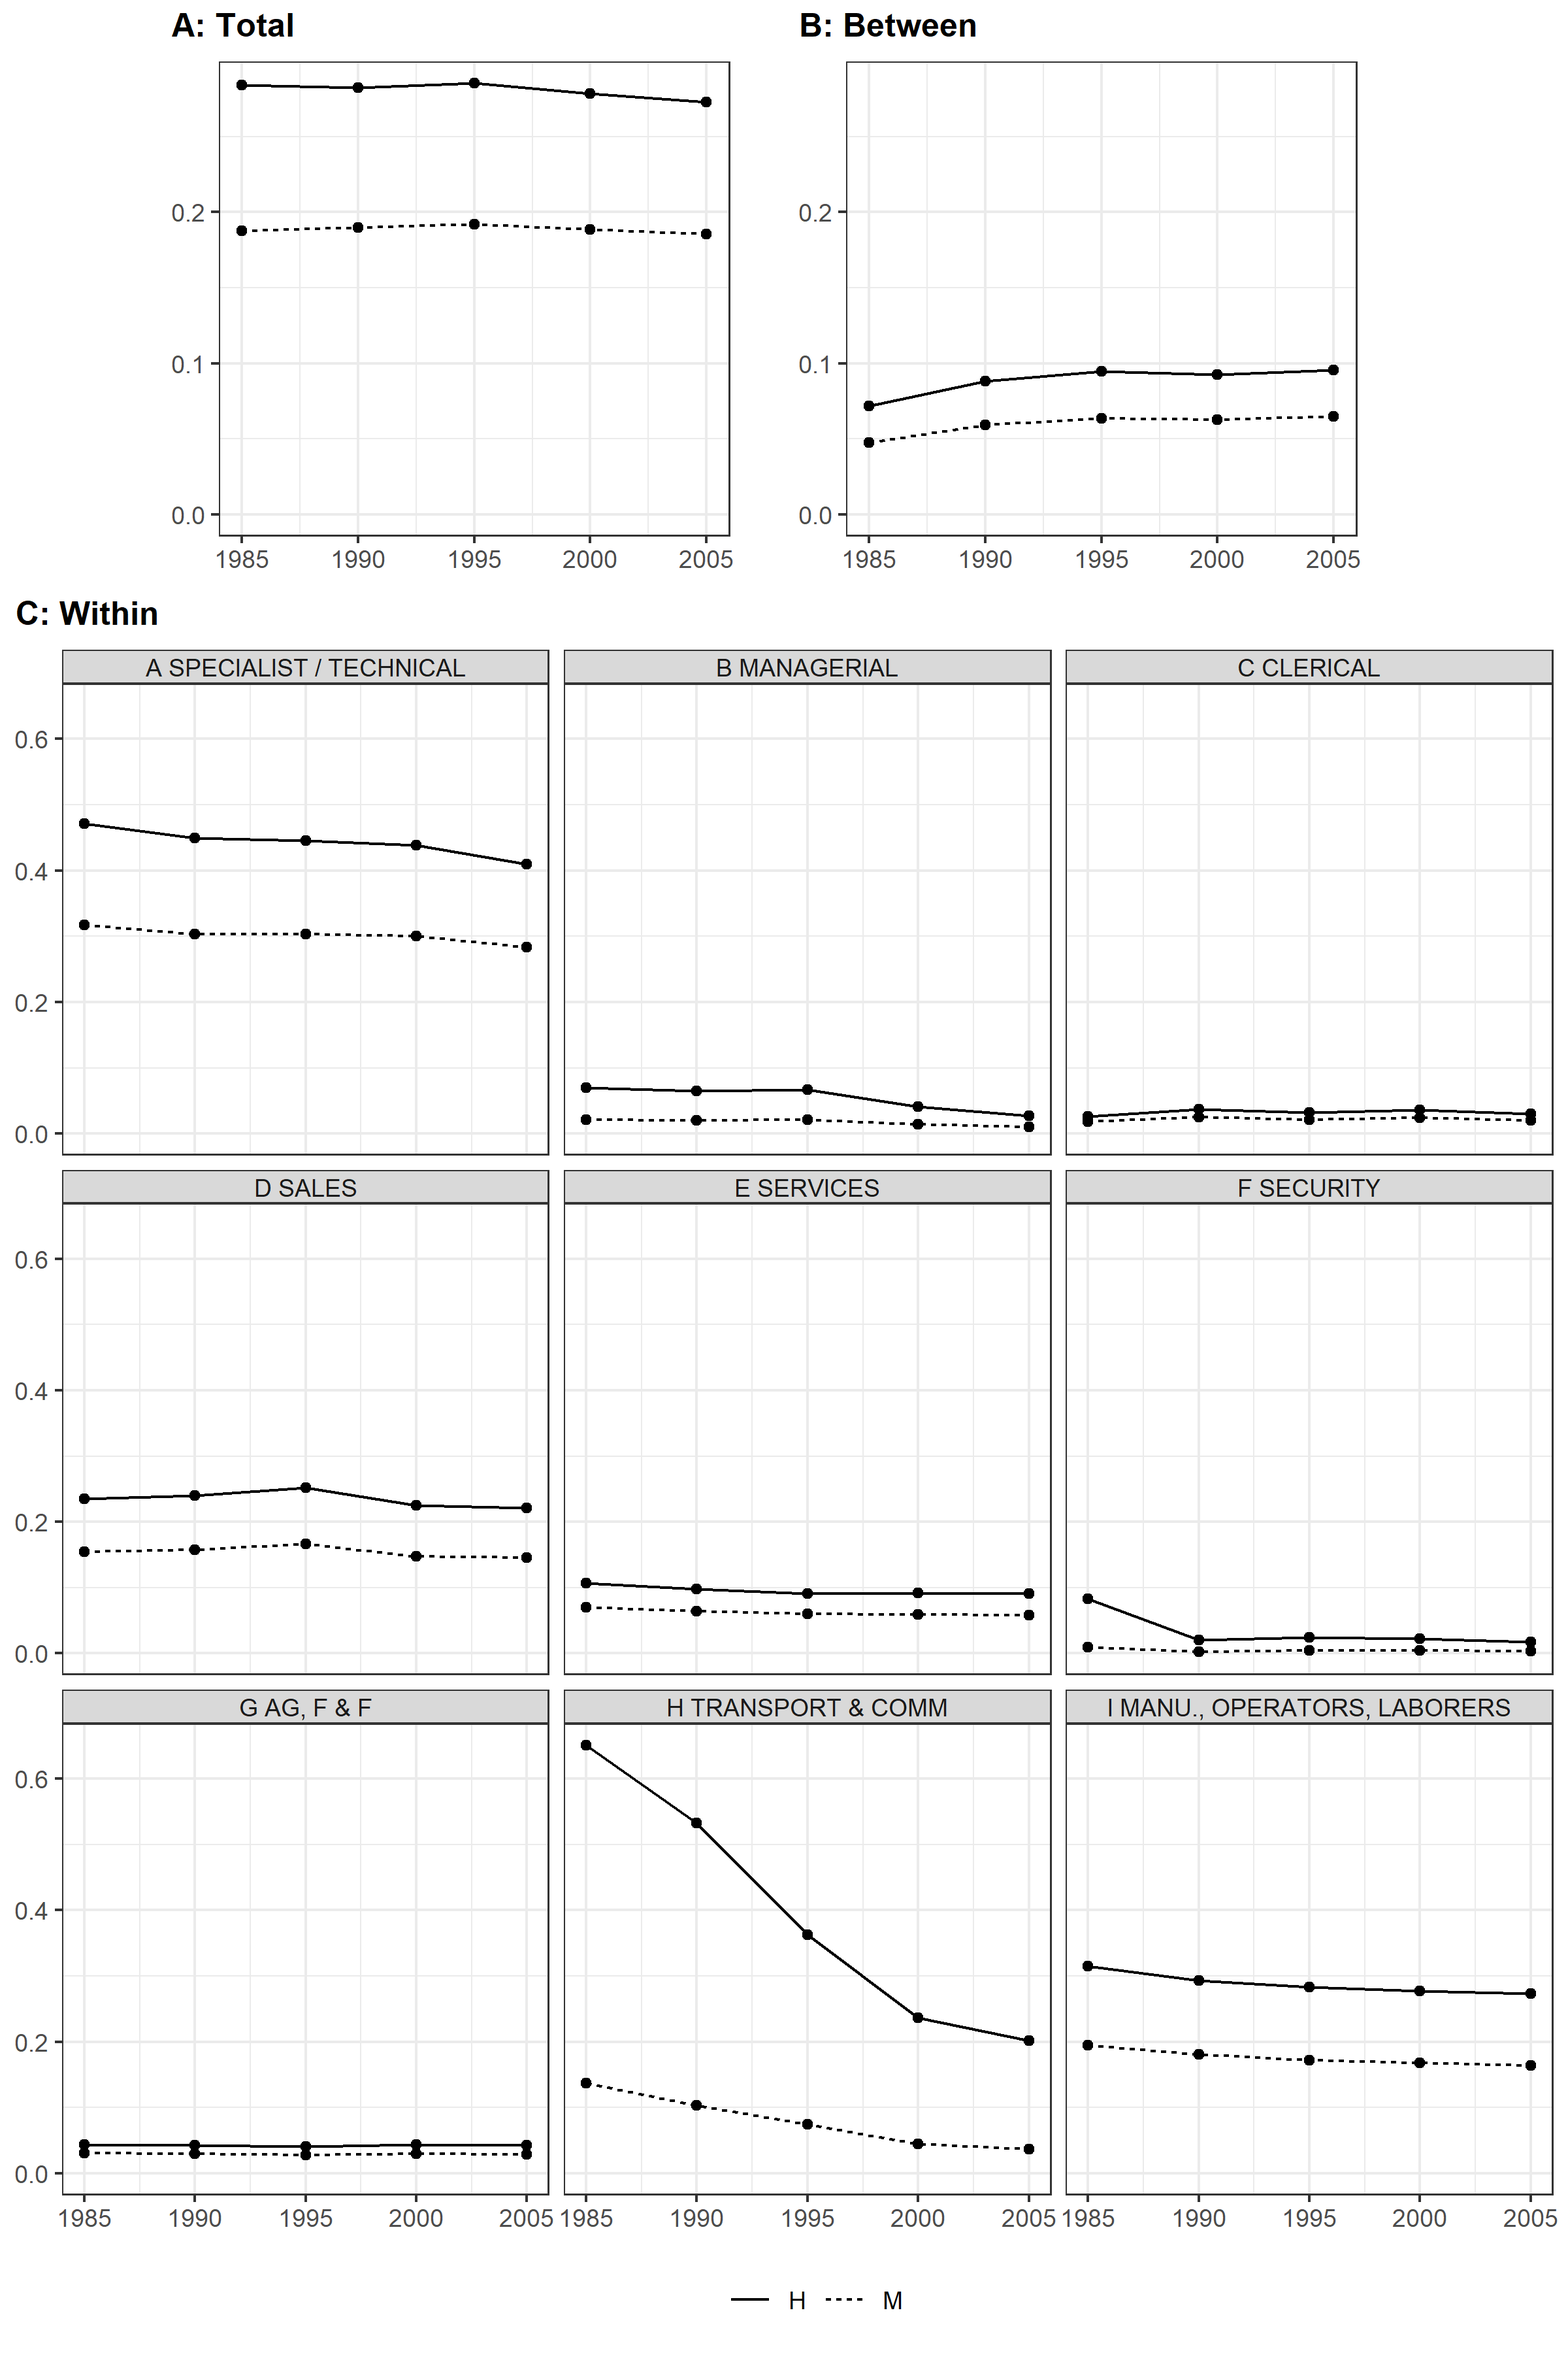
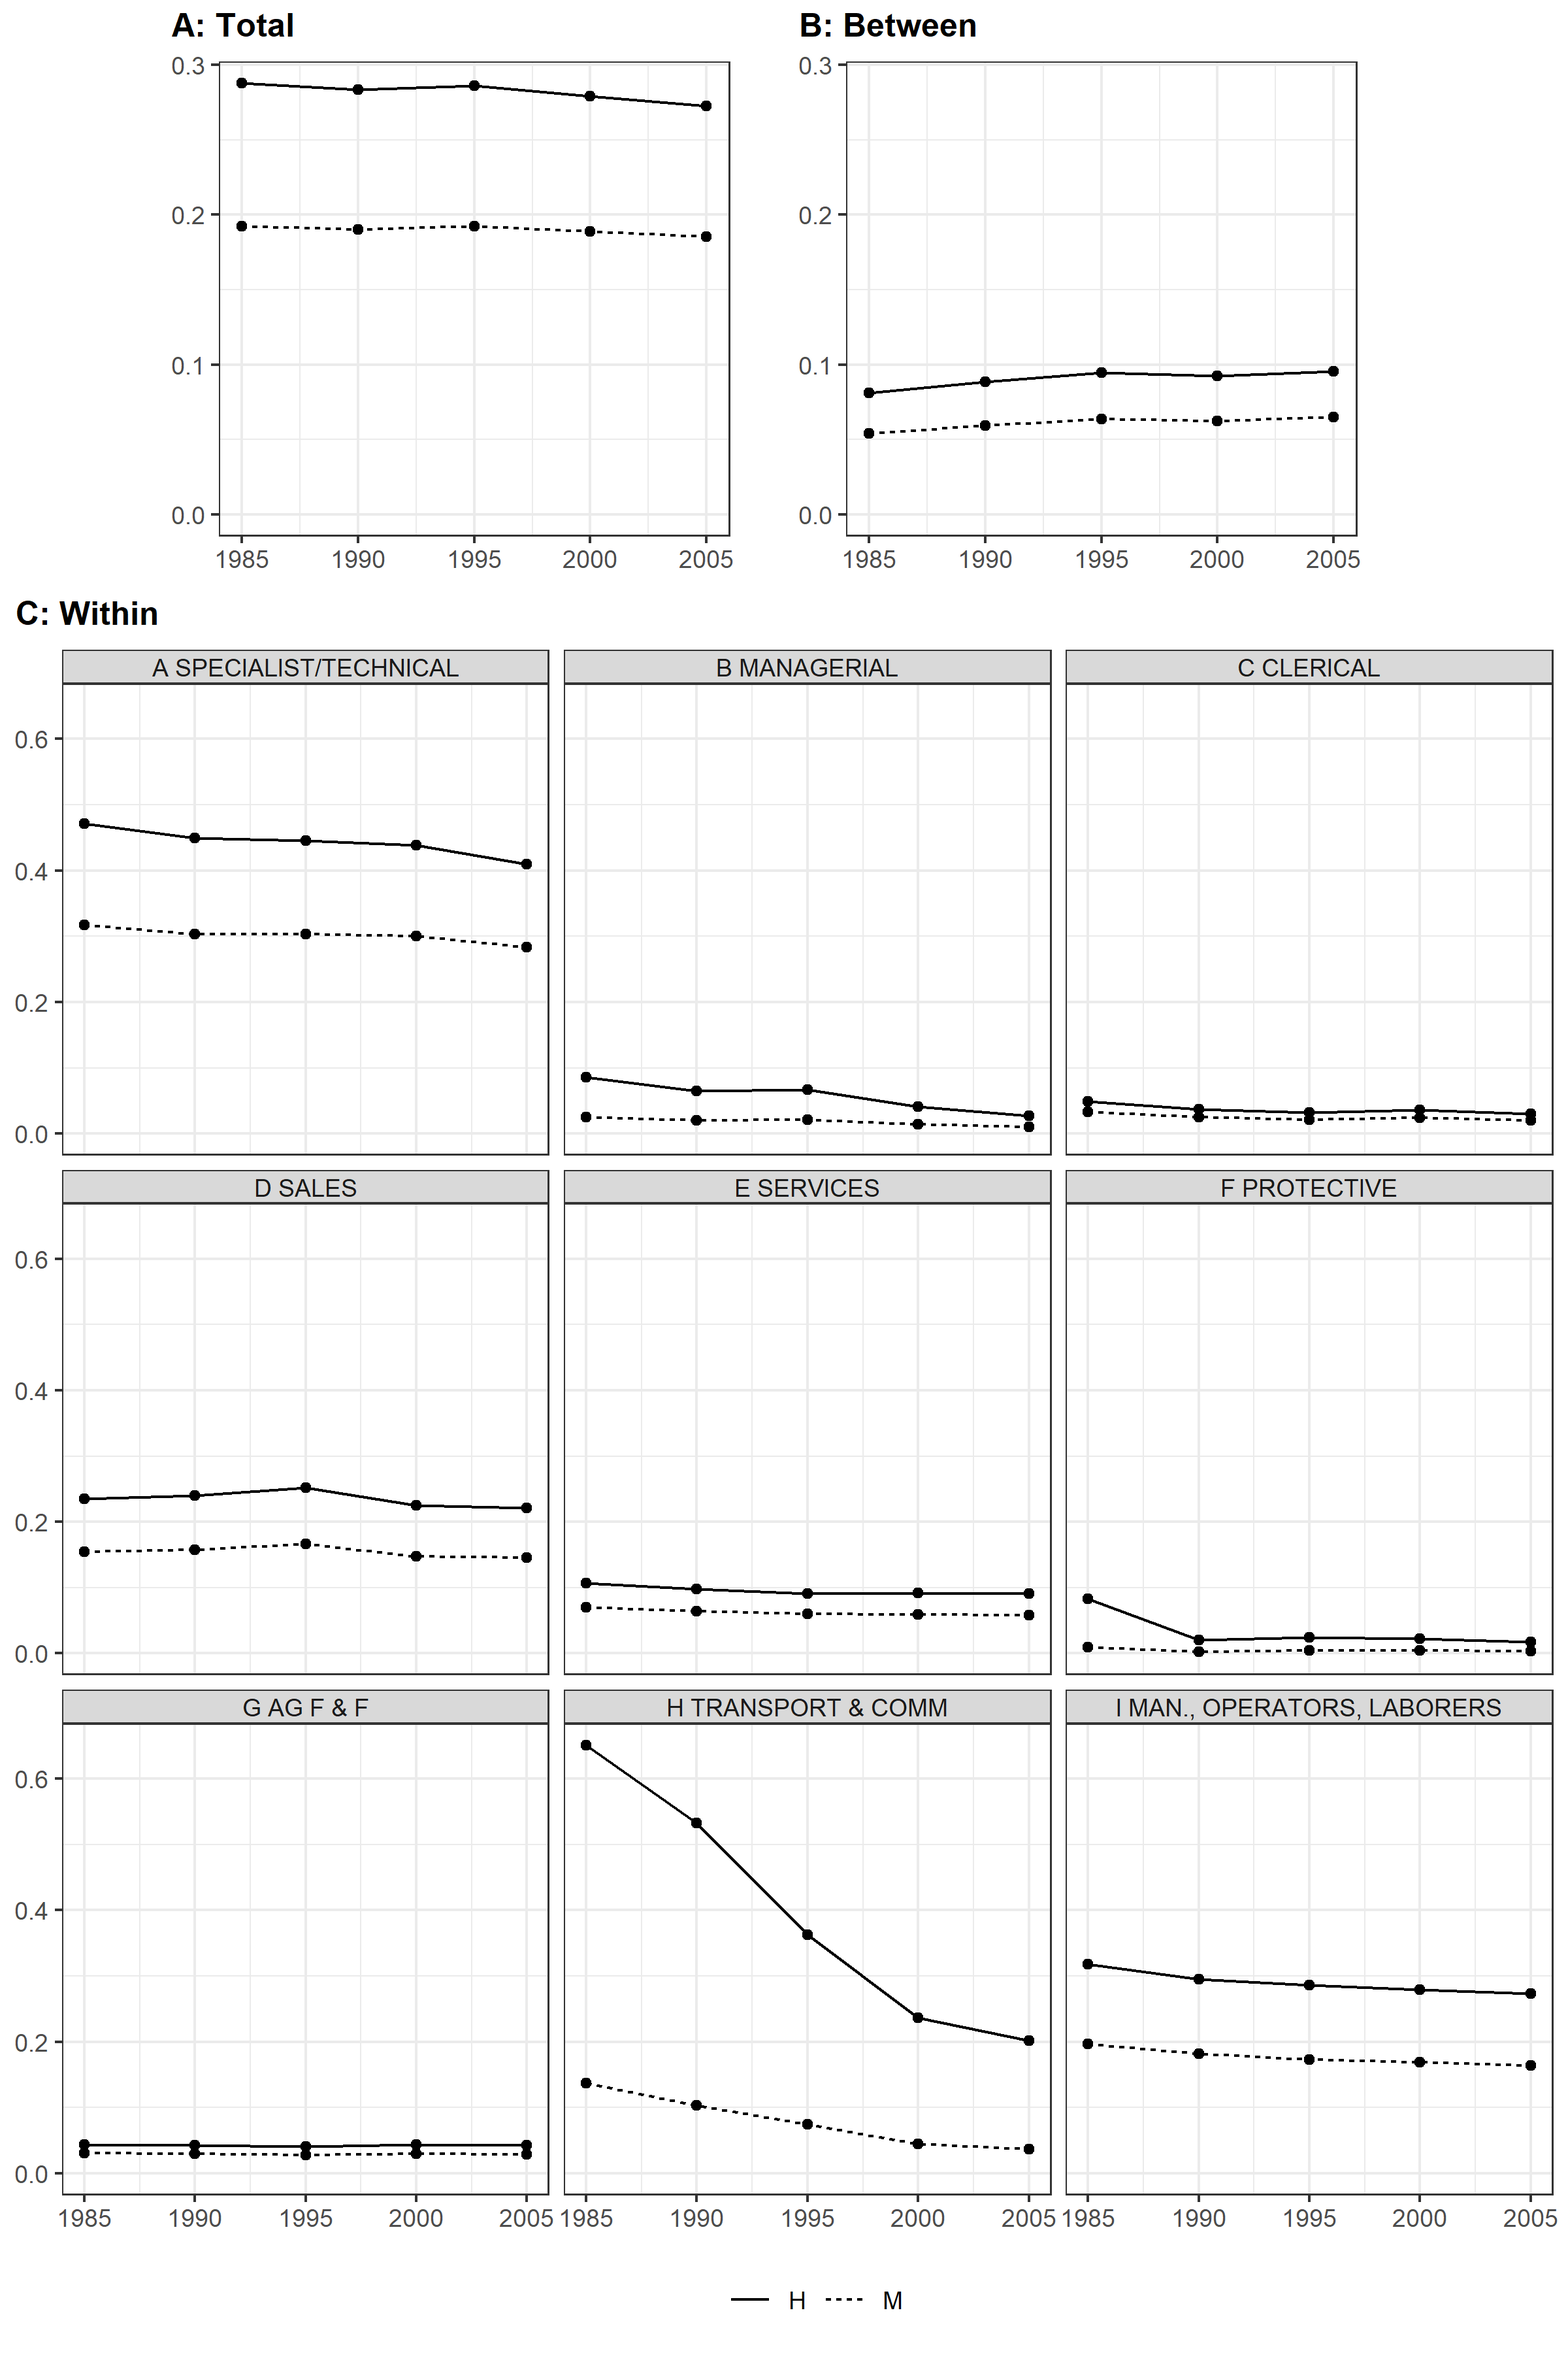
update ElbersTotalSegregation files

diff --git a/basic/ElbersTotalSegregation.html b/basic/ElbersTotalSegregation.html
@@ -2,7 +2,7 @@
     <head>
       <!--<meta name="google-site-verification" content="Z7SEnQaO9LAITbhuwGaI3rFtnpMRKeV9BbaW3LyvP2g" />-->
       <meta name="viewport" content="width=device-width, initial-scale=1.0">
-      <meta name="revised" content="14 December 2021" />
+      <meta name="revised" content="13 May 2022" />
         <title>Applying Elbers: Total segregation</title>
 
         <link rel="stylesheet" href="https://latex.now.sh/style.css"> 
@@ -16,7 +16,7 @@ integrity="sha256-84DKXVJXs0/F8OTMzX4UR909+jtl4G7SPypPavF+GfA=" crossorigin="ano
 <body>
 <h1>Applying Elbers: Total segregation</h1>
 <p class="author"><a href="https://orcid.org/0000-0003-0070-2347" target="_blank">Alan Engel</a><br>Last update: 
-14 December 2021</p>
+13 May 2022</p>
 <main>
     <p>Elbers (2021) derives a five-term decomposition: 
         $$S(t_{2})-S(t_{1})=\Delta_{appearing}+\Delta_{disappearing}$$
@@ -69,8 +69,89 @@ $$S(t_{2})-S(t_{1})=\Delta_{marginal-units}+\sum_{u\in t_{1}\cap t_{2}}\Delta_{i
           loading="lazy" alt="Decomposition of change 1985 to 2005" width="600" height="400" />
         <figcaption>Decomposition of change 1985 to 2005</figcaption>
 </figure>
-<pre><code class="language-html">#' AnalyzePerElbers.R
-# (continuation)
+<pre><code class="language-html">#' ElbersTotalSegregation.R
+#' 2021-12-15
+#' Revised 2022-5-13
+
+#' Code for https://alanintsukuba.github.io/gender.gap.japan/basic/ElbersTotalSegregation.html
+
+#' Adapted from
+#' Elbers, Benjamin. A Method for Studying Differences in Segregation Across Time and Space. 
+#' SocArXiv, 21 Dec. 2018, supplementary materials
+
+require("tidyverse")
+require("tidylog", warn.conflicts = FALSE)
+require("fst")
+require("ggthemes")
+require("segregation")
+require("cowplot")
+require("knitr")
+require("kableExtra")
+
+#####################################
+###### analysis: cross-section ######
+#####################################
+#' Note: Elbers uses the function do(), which has been superceded.
+#' Here, do() is replaced by summarize() and across() as described at
+#' https://dplyr.tidyverse.org/reference/do.html
+
+by_year <- d %>%
+    group_by(year) %>%
+    summarize(mutual_total(across(), "Gender", "OccMinor", weight = "w"))
+p_total <- ggplot(by_year, aes(x = year, y = est, linetype = stat)) +
+    geom_point() + geom_line() + ylim(0, max(by_year$est)) +
+    theme_bw() +
+    theme(axis.title.x = element_blank(),
+        axis.title.y = element_blank(),
+        legend.title = element_blank(),
+        legend.position = "none")
+
+d %>%
+    filter(OccMinor %in% common_occ) %>%
+    group_by(year) %>%
+    summarize(mutual_total(across(), "Gender", "OccMinor", weight = "w")) %>%
+    rename(est_common = est) %>%
+    left_join(by_year) %>%
+    mutate(est / est_common)
+
+between <- d %>%
+    group_by(year) %>%
+    summarize(mutual_total(across(), "Gender", "OccMain", weight = "w"))
+p_between <- ggplot(between, aes(x = year, y = est, linetype = stat)) +
+    geom_point() + geom_line() +
+    ylim(0, max(by_year$est)) +
+    theme_bw() +
+    theme(axis.title.x = element_blank(),
+        axis.title.y = element_blank(),
+        legend.title = element_blank(),
+        legend.position = "none")
+
+by_year_major <- d %>%
+    group_by(year, OccMain) %>%
+    summarize(mutual_total(across(), "Gender", "OccMinor", weight = "w")) %>%
+    merge(hoc[nchar(hoc$MainTitleLabel)>0,c("OccMain","MainTitleLabel")]) %>%
+    mutate(OccMain = paste(OccMain,MainTitleLabel,sep=" "))  %>%
+    select(-MainTitleLabel)
+
+p_major <- ggplot(by_year_major, aes(x = year, y = est, linetype = stat)) +
+    facet_wrap("OccMain") + geom_point() + geom_line() +
+    ylim(0, max(by_year_major$est)) +
+    theme_bw() +
+    theme(axis.title.x = element_blank(),
+        axis.title.y = element_blank(),
+        legend.title = element_blank(),
+        legend.position = "bottom",
+        strip.text.x = element_text(margin = margin(2, 0, 2, 0)))
+
+p_complete <- ggdraw() +
+    draw_plot(p_total, .1, .75, .375, .23) +
+    draw_plot(p_between, .5, .75, .375, .23) +
+    draw_plot(p_major, 0, 0, 1, .73) +
+    draw_plot_label(c("A: Total", "B: Between", "C: Within"),
+    c(.11, .51, 0.01), c(1.0, 1.0, .75), size = 12, hjust = 0)
+ggsave("Images/ElbersTotalSegregation01.pdf", p_complete, width = 6, height = 8)
+ggsave("Images/ElbersTotalSegregation01.png", p_complete, width = 8, height = 12)
+
 ##############################
 ###### analysis: change ######
 ##############################
@@ -89,12 +170,12 @@ diffs <- bind_rows(
         spread(stat, est),
     d %>%
         group_by(OccMain) %>%
-            do(mutual_difference(filter(., year == 1985), filter(., year == 2005),
+            summarize(mutual_difference(filter(across(), year == 1985), filter(across(), year == 2005),
                         "Gender", "OccMinor", weight = "w", precision = .000001)) %>%
             spread(stat, est) %>%
-        merge(hoc[nchar(hoc$MainTitle)>0,c("OccMain","MainTitle")]) %>% # add main group titles
-            mutate(OccMain = paste(OccMain,MainTitle,sep=" "))  %>%
-            select(-MainTitle)  %>%
+        merge(hoc[nchar(hoc$MainTitleLabel)>0,c("OccMain","MainTitleLabel")]) %>% # add main group titles
+            mutate(OccMain = paste(OccMain,MainTitleLabel,sep=" "))  %>%
+            select(-MainTitleLabel)  %>%
             arrange(diff)
     )
 
@@ -163,7 +244,12 @@ p <- ggplot(diffs_plot, aes(y = value, x = reorder(OccMain, -order), fill = comp
     ylab("Difference in M") +
     coord_flip()
 
-ggsave("Output/ElbersTotalSegregation02.png", p, width = 8, height = 5)
+ggsave("Images/ElbersTotalSegregation02.png", p, width = 8, height = 5)
+
+#' clean up
+rm(p,labels ,diffs_plot,diffs_total,diffs_percentage,diffs_total,d1985,d2005 ,
+p_complete,p_major,by_year_major,p_between,between,p_total,by_year)
+
 </code></pre>
 </main>
 <div id="references" class="section level2">
